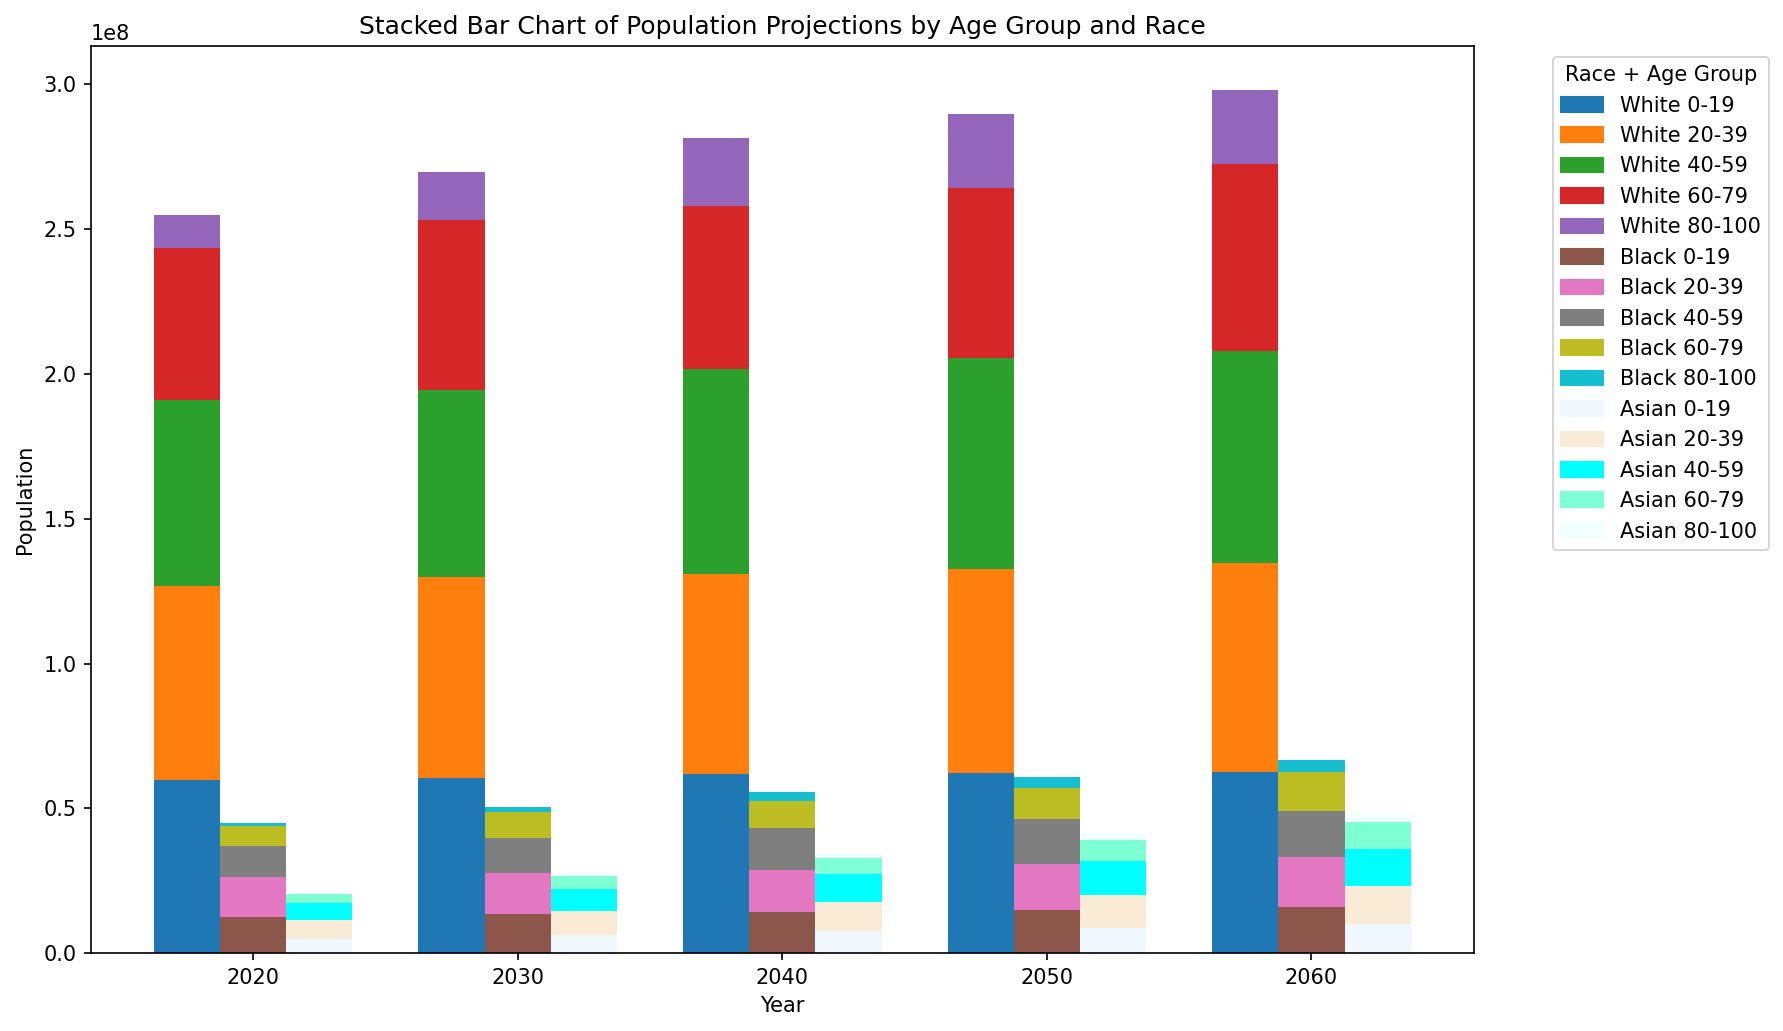
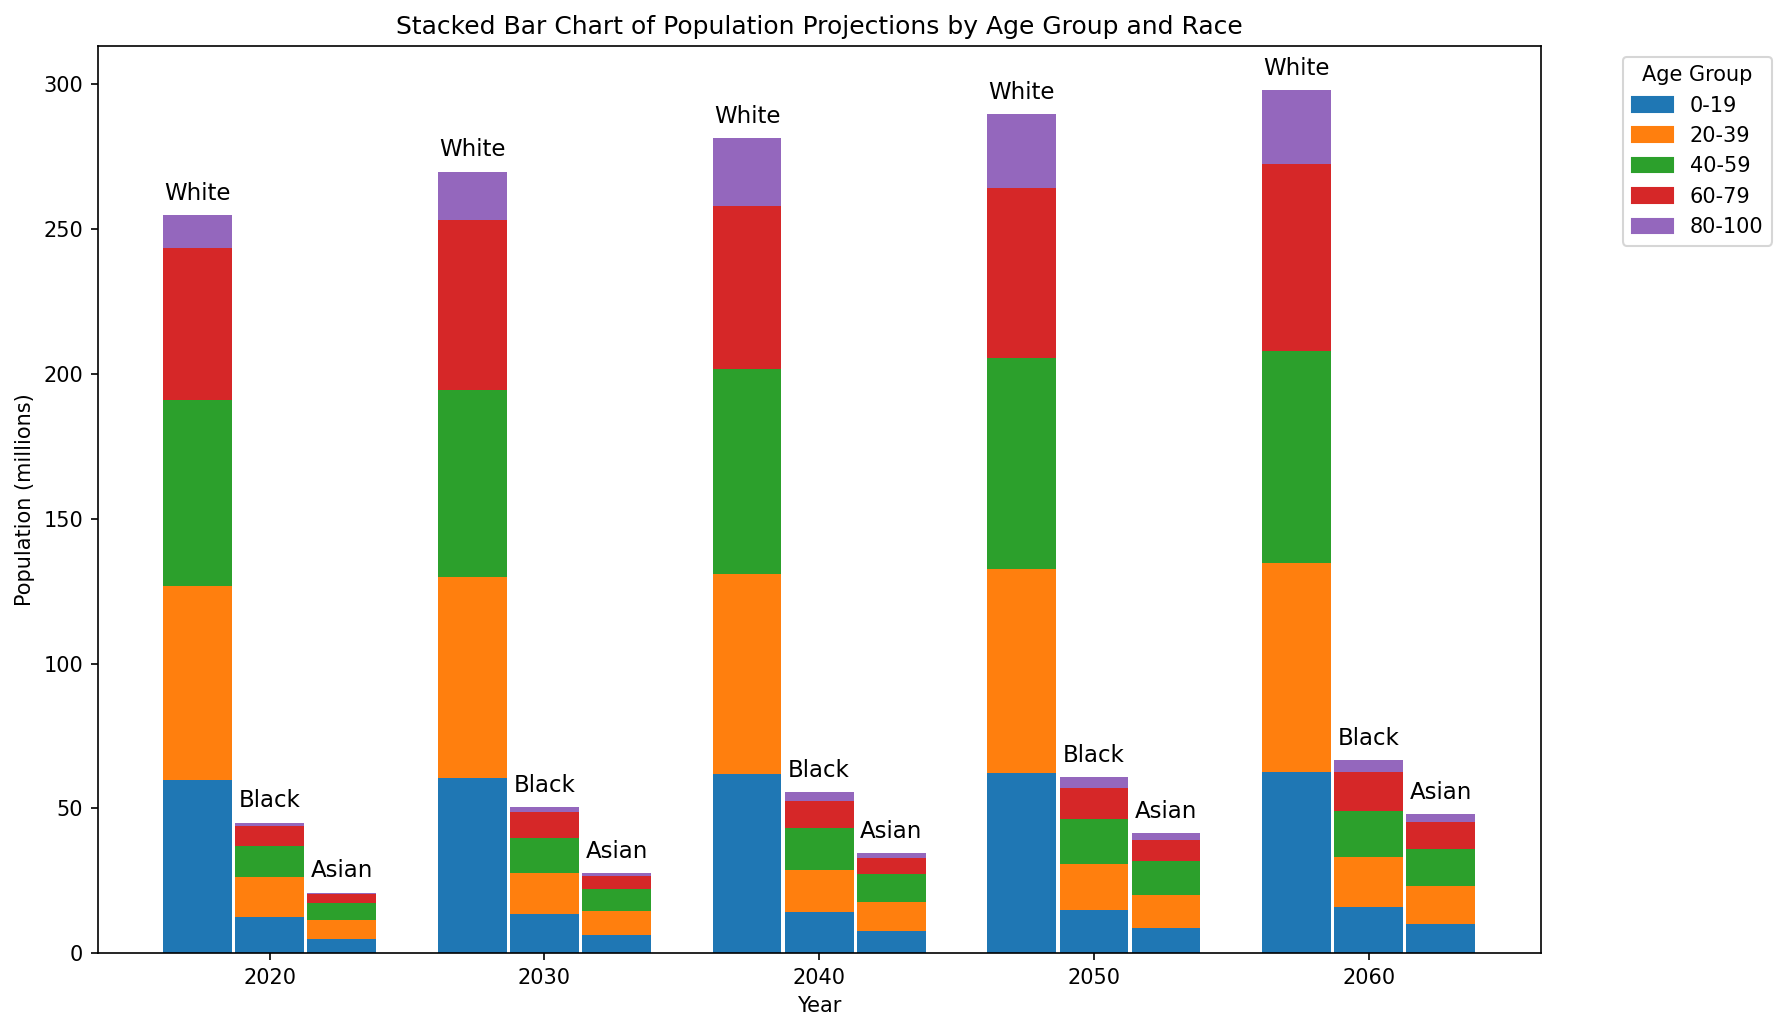
fixes to stacked bar chart

diff --git a/src/project3/plot.py b/src/project3/plot.py
@@ -123,16 +123,13 @@ def plot_stacked_bar(df):
 		"POP_80_100": "80-100",
 	}
 
-	# Generate a color for each (race, age group) combination
-	import itertools
-	import matplotlib.colors as mcolors
-	color_list = list(mcolors.TABLEAU_COLORS.values()) + list(mcolors.CSS4_COLORS.values())
-	color_iter = itertools.cycle(color_list)
-	races = ["White", "Black", "Asian"]
-	color_map = {}
-	for race in races:
-		for age in AGE_GROUPS:
-			color_map[(race, age)] = next(color_iter)
+	AGE_COLORS = {
+		"POP_0_19": "#1f77b4",   # 0-19
+		"POP_20_39": "#ff7f0e",  # 20-39
+		"POP_40_59": "#2ca02c",  # 40-59
+		"POP_60_79": "#d62728",  # 60-79
+		"POP_80_100": "#9467bd", # 80-100
+	}
 
 	plot_df = df.copy()
 	plot_df["RACE"] = plot_df["RACE"].map(RACE_LABELS)
@@ -148,43 +145,56 @@ def plot_stacked_bar(df):
 
 	plt.figure(figsize=(12, 7))
 
-	legend_handles = []
+	ax = plt.gca()
+	bar_gap = 0.05
+	n_races = len(races)
+	total_bar_width = n_races * bar_width + (n_races - 1) * bar_gap * bar_width
 	for i, race in enumerate(races):
 		race_df = plot_df[plot_df["RACE"] == race].sort_values("YEAR")
-		x_pos = x + i * bar_width
+		x_pos = x - (total_bar_width / 2) + (i * (bar_width + bar_gap * bar_width)) + (total_bar_width / 2 - (n_races * bar_width) / 2)
 		bottoms = np.zeros(len(years_to_plot))
-		for age in AGE_GROUPS:
+		for j, age in enumerate(AGE_GROUPS):
 			values = race_df[age].values
-			color = color_map[(race, age)]
-			label = f"{race} {AGE_LABELS[age]}"
-			bar = plt.bar(x_pos, values, width=bar_width, bottom=bottoms, color=color, label=label)
-			# Only add one handle per label
-			legend_handles.append(bar[0])
+			color = AGE_COLORS[age]
+			bar = plt.bar(x_pos, values, width=bar_width, bottom=bottoms, color=color)
 			bottoms += values
+		for k, xpos in enumerate(x_pos):
+			total_height = sum([race_df[age].values[k] for age in AGE_GROUPS])
+			plt.text(xpos, total_height + max(ax.get_yticks())*0.01, race, ha='center', va='bottom', fontsize=11)
 
 	plt.xlabel("Year")
-	plt.ylabel("Population")
+	plt.ylabel("Population (millions)")
 	plt.title("Stacked Bar Chart of Population Projections by Age Group and Race")
 
-	plt.xticks(x + bar_width, years_to_plot)
+	try:
+		black_idx = list(races).index('Black')
+	except ValueError:
+		black_idx = 0
+	bar_gap = 0.05
+	n_races = len(races)
+	total_bar_width = n_races * bar_width + (n_races - 1) * bar_gap * bar_width
+	black_x = x - (total_bar_width / 2) + (black_idx * (bar_width + bar_gap * bar_width)) + (total_bar_width / 2 - (n_races * bar_width) / 2)
+	plt.xticks(black_x, years_to_plot)
+
+	# set y-axis to display in millions using a formatter
+	from matplotlib.ticker import FuncFormatter
+	ax = plt.gca()
+	def millions(x, pos):
+		return f"{int(x/1e6)}" if x != 0 else "0"
+	ax.yaxis.set_major_formatter(FuncFormatter(millions))
 
 	import matplotlib.patches as mpatches
 
-	legend_patches = []
-
-	for race in ["White", "Black", "Asian"]:
-		for age in AGE_GROUPS:
-			label = f"{race} {AGE_LABELS[age]}"
-			color = color_map[(race, age)]
-			legend_patches.append(
-				mpatches.Patch(color=color, label=label)
-			)
+	legend_patches = [
+		mpatches.Patch(color=AGE_COLORS[age], label=AGE_LABELS[age])
+		for age in AGE_GROUPS
+	]
 
 	plt.legend(
 		handles=legend_patches,
 		bbox_to_anchor=(1.05, 1),
 		loc='upper left',
-		title="Race + Age Group"
+		title="Age Group"
 	)
 
 	plt.tight_layout()
